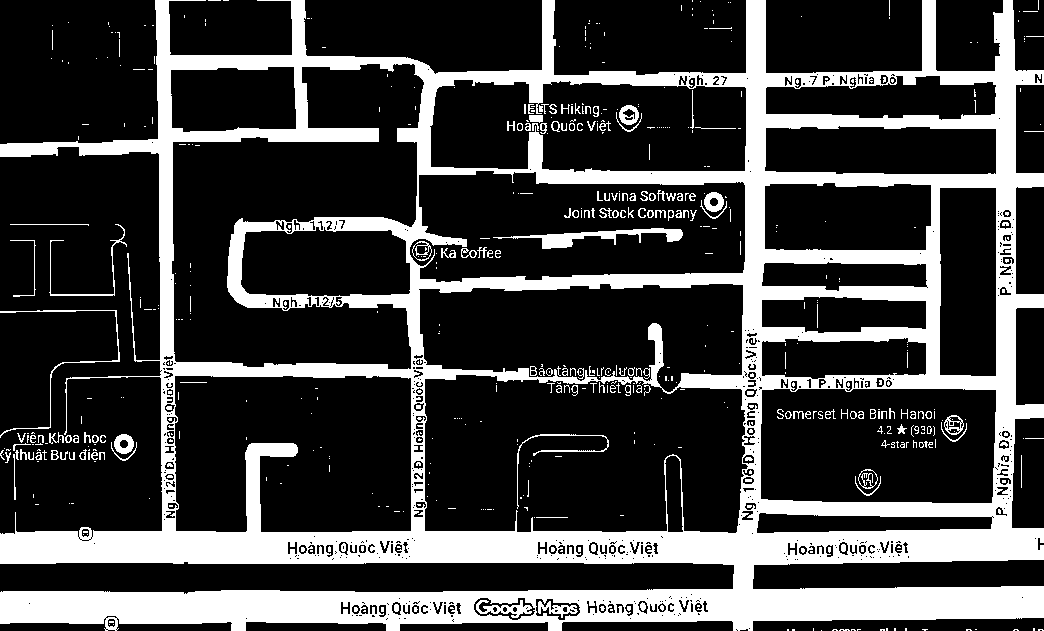
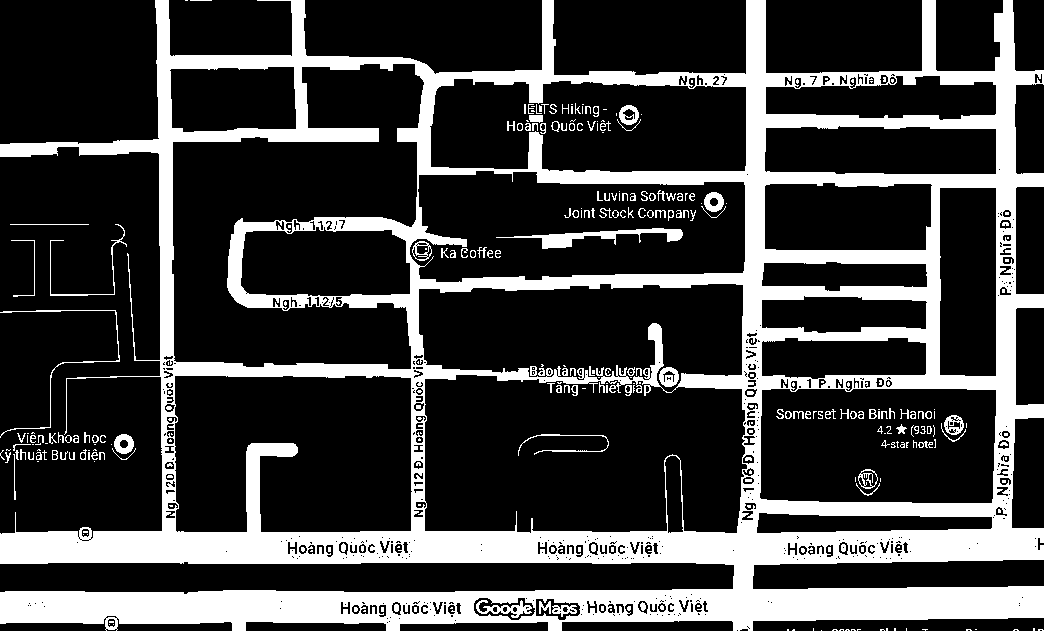
//

Changed region(s): [[0.613, 0.5721, 0.6743, 0.6323]]

diff --git a/todo.py b/todo.py
@@ -9,47 +9,68 @@ def extract_centerline_and_junctions(image_path, debug=False):
     if img is None:
         raise FileNotFoundError("Không tìm thấy ảnh gốc.")
 
+
+
+
+
     # Lọc màu đường (BGR)
     color_min_tong = np.array([0, 0, 0], dtype=np.uint8)
     color_max_tong = np.array([246, 225, 255], dtype=np.uint8)
+    
 
     color_min_duong = np.array([170, 0, 0], dtype=np.uint8)
     color_max_duong = np.array([255, 229, 255], dtype=np.uint8)
+    
 
     # Lọc màu chữ (BGR)
     color_min_chu = np.array([0, 0, 0], dtype=np.uint8)
     color_max_chu = np.array([255, 198, 246], dtype=np.uint8)
-
-    # Tạo các mask
+    
+    # 3 mask chính
     mask_duong_tong = cv2.inRange(img, color_min_tong, color_max_tong)
+
     mask_duong_raw = cv2.inRange(img, color_min_duong, color_max_duong)
+
     mask_chu = cv2.inRange(img, color_min_chu, color_max_chu)
 
+    
+
     mask_duong = cv2.bitwise_and(mask_duong_raw, mask_duong_raw, mask=cv2.bitwise_not(mask_chu))
+
+    # Bước 1: Tạo mask đường đầy đủ bằng cách loại bỏ chữ khỏi mask tổng
     mask_road_full = cv2.bitwise_and(mask_duong_tong, cv2.bitwise_not(mask_chu))
+
+    # Bước 2: Kết hợp mask đường ban đầu (đã có chi tiết) với mask đường đầy đủ
     mask_road_clean = cv2.bitwise_or(mask_duong_tong, mask_road_full)
 
-    # Morphology để làm mịn và loại bỏ nhiễu
+    # Bước 3: Làm mịn và khôi phục các đoạn bị đứt bằng morphology
+    kernel = cv2.getStructuringElement(cv2.MORPH_RECT, (8, 8)) 
+
+
     kernel_noise = cv2.getStructuringElement(cv2.MORPH_RECT, (3, 3))
     mask_road_clean = cv2.morphologyEx(mask_road_clean, cv2.MORPH_OPEN, kernel_noise)
+    
+    # kernel = cv2.getStructuringElement(cv2.MORPH_RECT, (7, 7))
+    # mask_closed = cv2.morphologyEx(mask, cv2.MORPH_CLOSE, kernel, iterations=2)
 
-    # Thêm morphological closing để nối các đoạn gần nhau (bỏ comment nếu cần)
-    kernel = cv2.getStructuringElement(cv2.MORPH_RECT, (8, 8))
+
+
     mask_road_clean = cv2.morphologyEx(mask_road_clean, cv2.MORPH_CLOSE, kernel)
 
-    # === Distance Transform + Bridging để nối các đoạn gần nhau ===
-    dist = cv2.distanceTransform(mask_road_clean, cv2.DIST_L2, 5)
-    _, dist_thresh = cv2.threshold(dist, 10, 255, cv2.THRESH_BINARY)
-    dist_thresh = dist_thresh.astype(np.uint8)
+#    mask_road_clean loại bỏ đường trường hợp chữ nằm trên đường , giờ cần xử lí trường hợp cữ chữ nằm sát đường
 
-    kernel_bridge = cv2.getStructuringElement(cv2.MORPH_RECT, (9, 9))
-    mask_bridge = cv2.dilate(dist_thresh, kernel_bridge, iterations=1)
 
-    mask_road_clean = cv2.bitwise_or(mask_road_clean, mask_bridge)
+    
 
-    # Lưu ảnh mask
+
+
+
+    # Loại bỏ chữ khỏi mask đường
+
+    # Tạo thư mục và lưu ảnh
+    mask_tong = cv2.bitwise_or(mask_duong_raw, mask_chu)
+    cv2.imwrite("output/mask_tong.png", mask_duong_tong)
     os.makedirs("output", exist_ok=True)
-    cv2.imwrite("output/mask_duong_tong.png", mask_duong_tong)
     cv2.imwrite("output/mask_duong.png", mask_duong)
     cv2.imwrite("output/mask_chu.png", mask_chu)
     cv2.imwrite("output/mask_road_clean.png", mask_road_clean)
@@ -64,6 +85,7 @@ def extract_centerline_and_junctions(image_path, debug=False):
     # Skeleton hóa
     binary_bool = clean_binary > 0
     skeleton = skeletonize(binary_bool).astype(np.uint8) * 255
+
     height, width = skeleton.shape
 
     # Tìm nút giao
@@ -94,6 +116,10 @@ def extract_centerline_and_junctions(image_path, debug=False):
 
     endpoints = [(x, y) for y in range(height) for x in range(width)
                  if skeleton[y, x] == 255 and degree[y, x] == 1]
+    # for p1 in endpoints:
+        # for p2 in endpoints:
+            # if p1 != p2 and np.linalg.norm(np.array(p1) - np.array(p2)) < 30:
+                # cv2.line(skeleton, p1, p2, 255, 1)
 
     # Truy vết đoạn
     def get_neighbors(x, y):
@@ -169,6 +195,7 @@ def extract_centerline_and_junctions(image_path, debug=False):
         simplified = simplify_segment(segment, epsilon=2.0)
         sampled_segments.append(simplified)
 
+    # Sắp xếp đoạn theo vị trí nút giao
     junction_midpoints = [tuple(seg[len(seg)//2]) for seg in sampled_segments if len(seg) >= 2]
     sorted_data = sorted(zip(sampled_segments, junction_midpoints), key=lambda item: (item[1][1], item[1][0]))
     sampled_segments, junction_midpoints = zip(*sorted_data) if sorted_data else ([], [])
@@ -185,3 +212,4 @@ def extract_centerline_and_junctions(image_path, debug=False):
         cv2.destroyAllWindows()
 
     return sampled_segments, junctions, junction_midpoints
+
